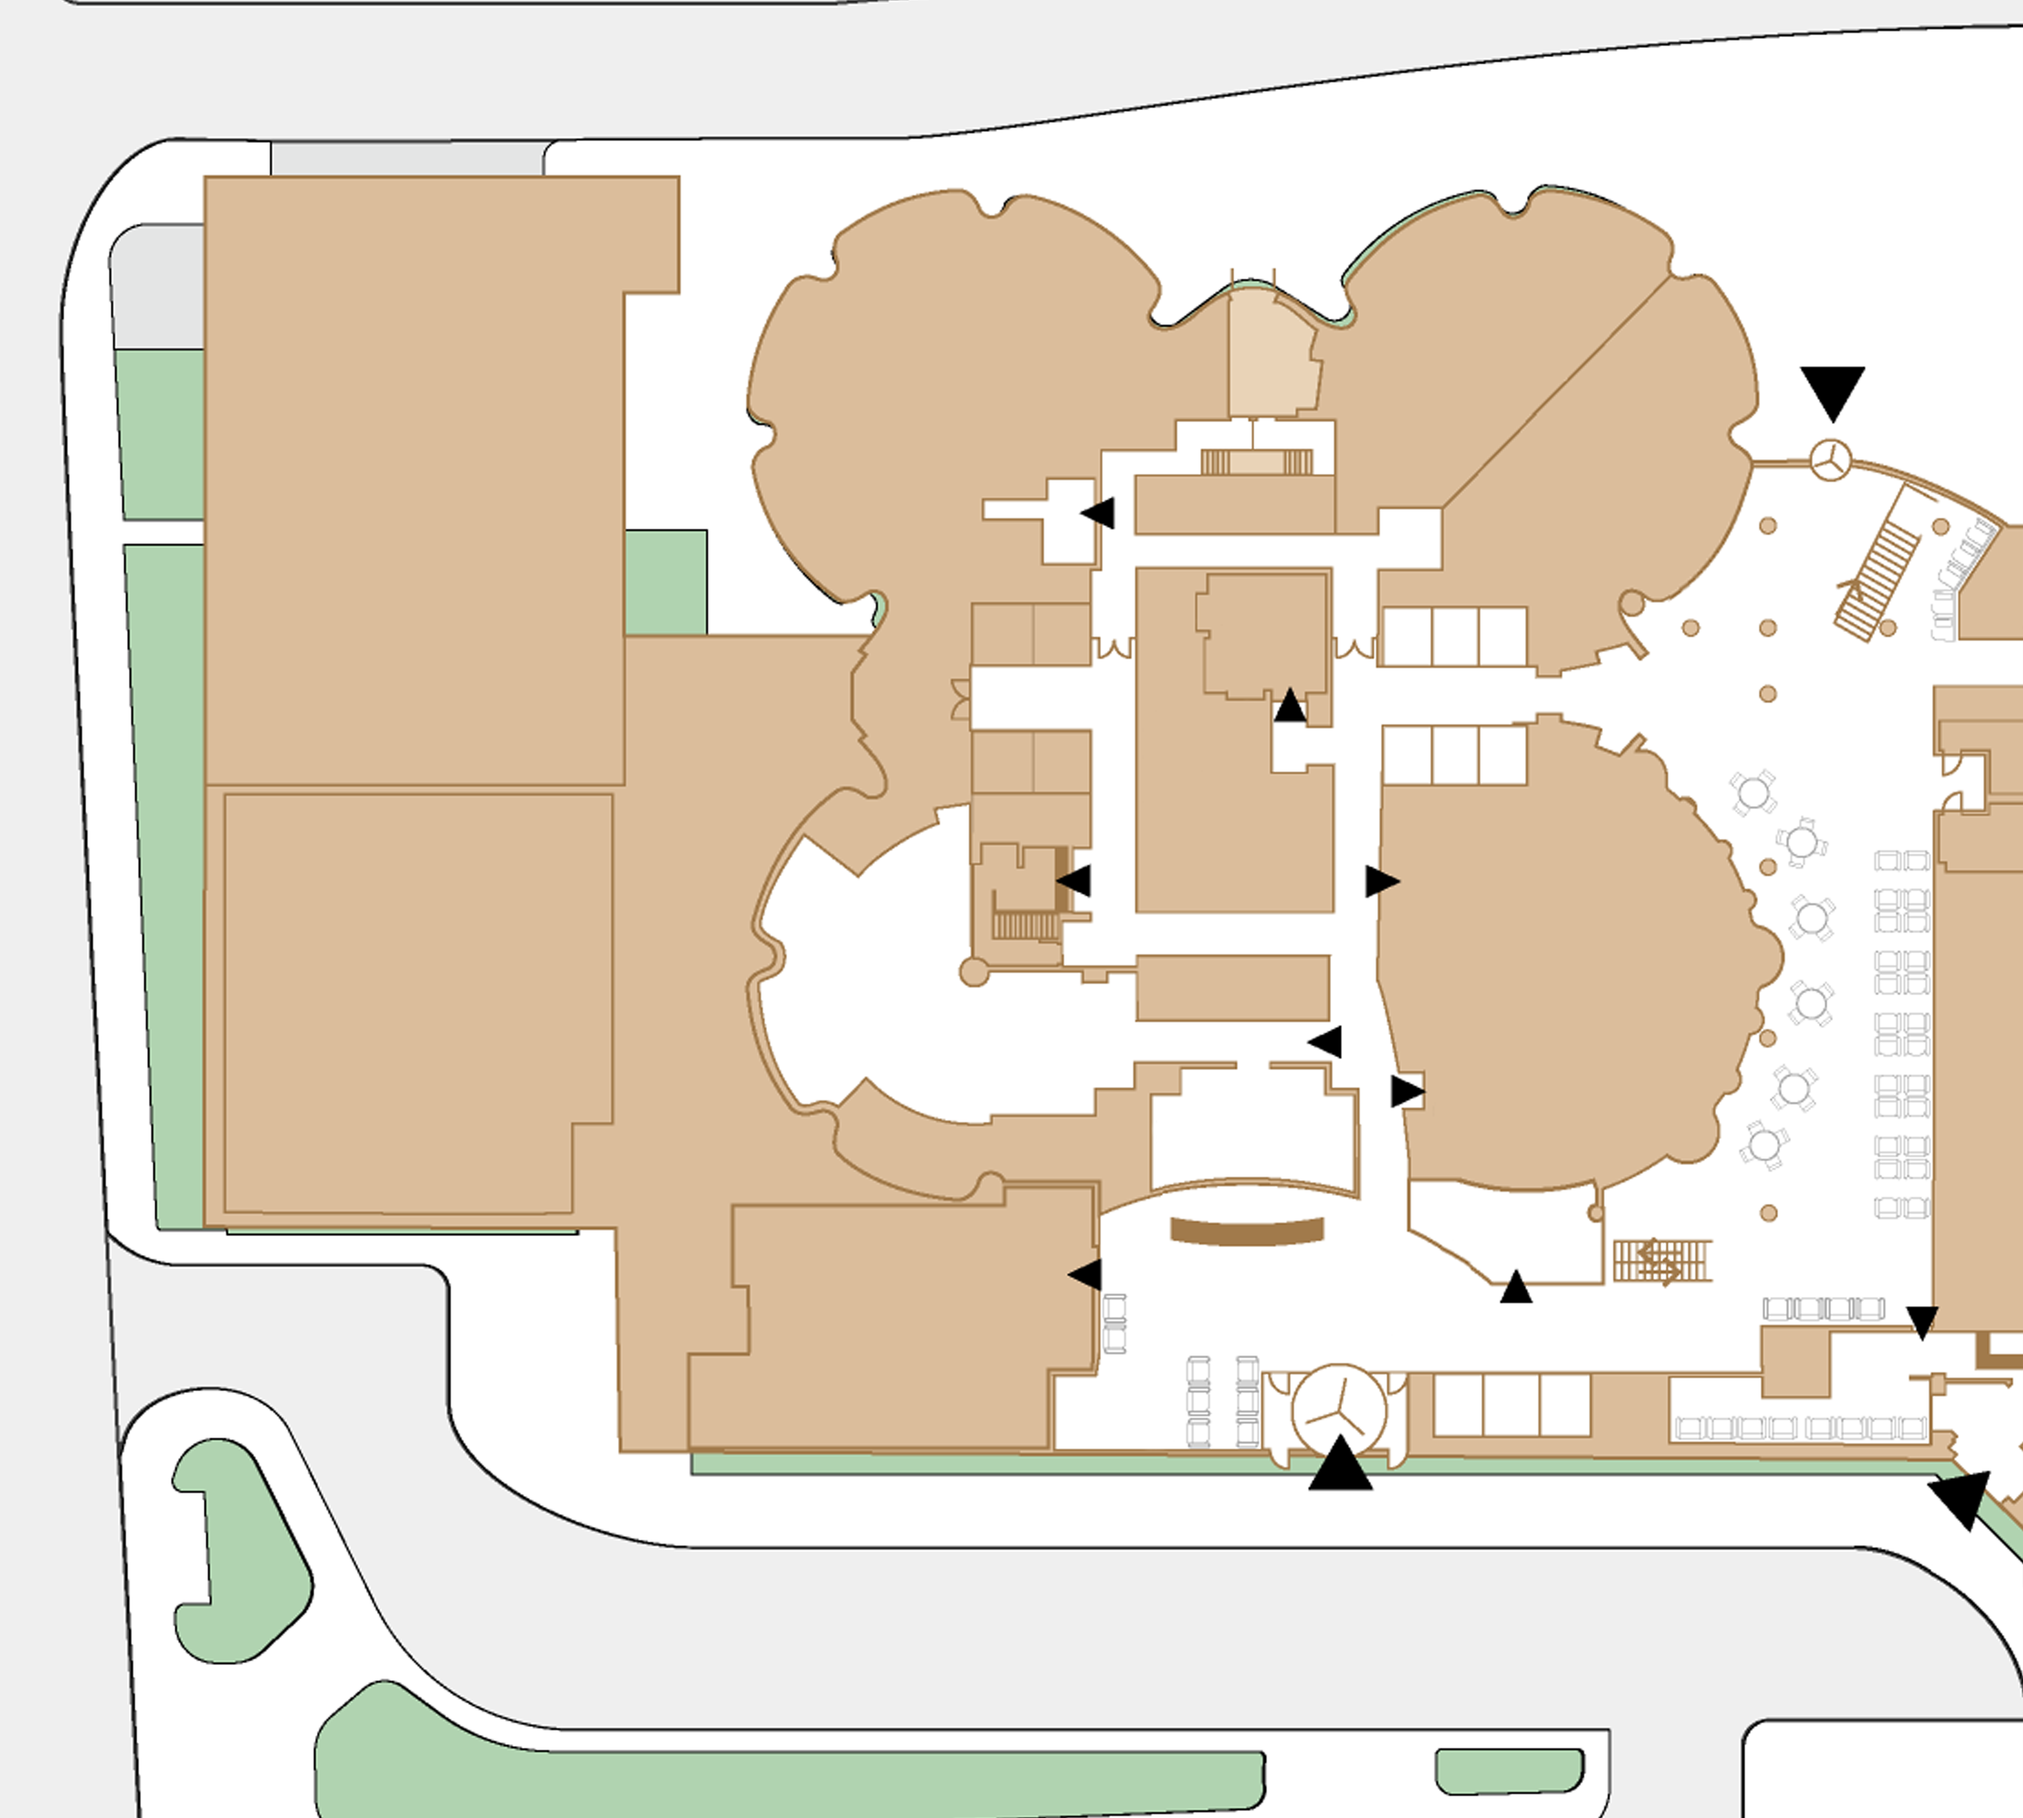
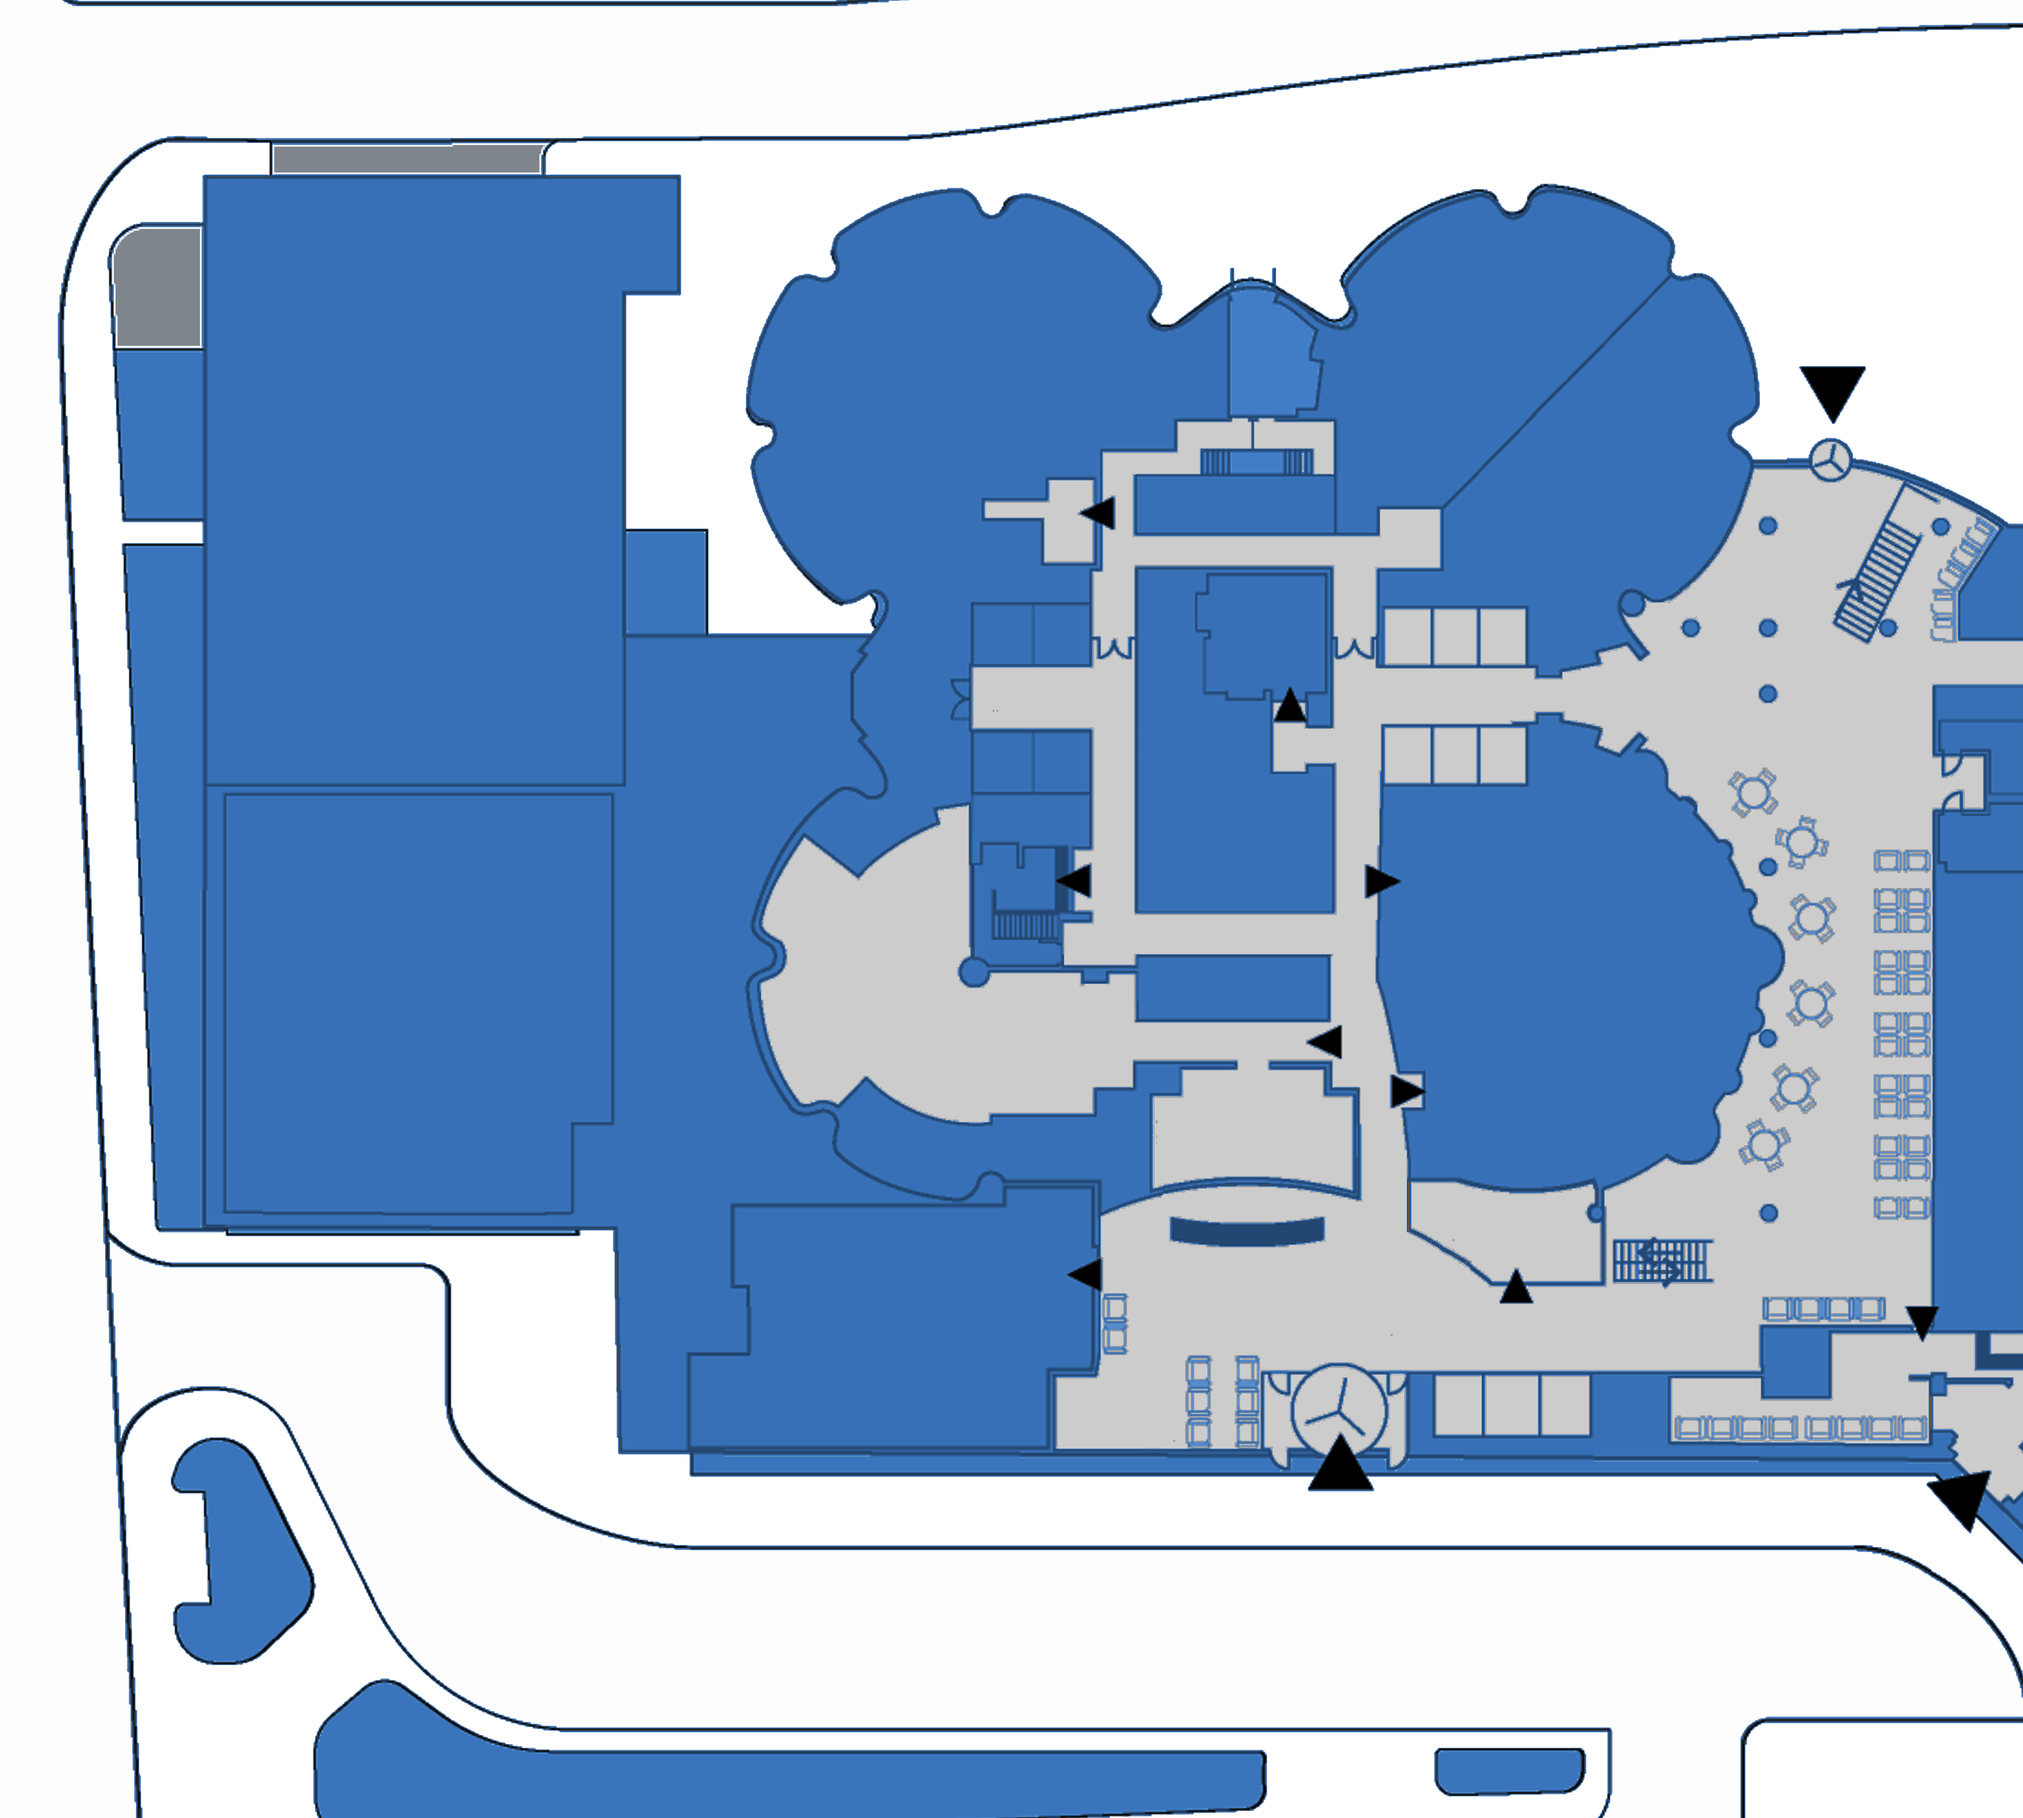
Replaced old maps with new, blue maps to fit the application's theme

diff --git a/src/main/java/edu/wpi/DapperDaemons/controllers/MapDashboardController.java b/src/main/java/edu/wpi/DapperDaemons/controllers/MapDashboardController.java
@@ -53,6 +53,8 @@ public class MapDashboardController extends ParentController {
 
   @Override
   public void initialize(URL location, ResourceBundle resources) {
+    floorNum = 2;
+    floor = getFloor();
     Collections.fill(floorsInAnimation, Boolean.FALSE);
     Collections.fill(isHovered, Boolean.FALSE);
     Collections.fill(isSelected, Boolean.FALSE);
@@ -178,7 +180,7 @@ public class MapDashboardController extends ParentController {
   }
 
   private void createTable() {
-    t = new Table<>(Request.class, table, 1);
+    t = new Table<>(Request.class, table, 1, 0);
     t.setRows(DAOFacade.getAllRequests());
     t.setHeader(List.of("Type", "Assignee", "Priority"));
     t.setRequestListeners();
